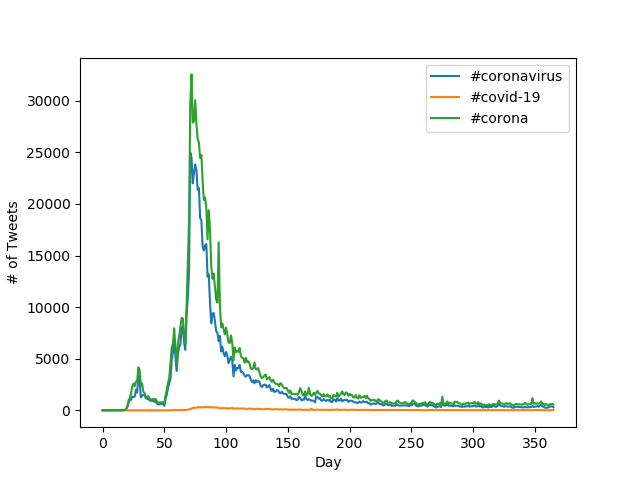
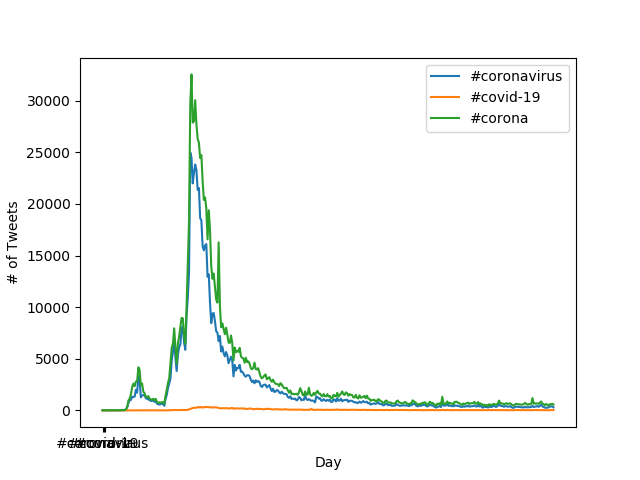
alternative attempt 6

diff --git a/src/alternative_reduce.py b/src/alternative_reduce.py
@@ -32,8 +32,10 @@ for key in args.keys:
                 print('man')
             yaxis.append(num)
     plt.plot(np.arange(366), yaxis, label = key)
+n = len(args.keys)
+ind = np.arange(n)
 plt.ylabel('# of Tweets')
-# plt.xticks(ind, keys)
+plt.xticks(ind, args.keys)
 plt.xlabel('Day')
 # fig, ax = plt.subplots(nrows=1, ncols=1)
 # ax.plot(keys[0:11], values[0:11])
